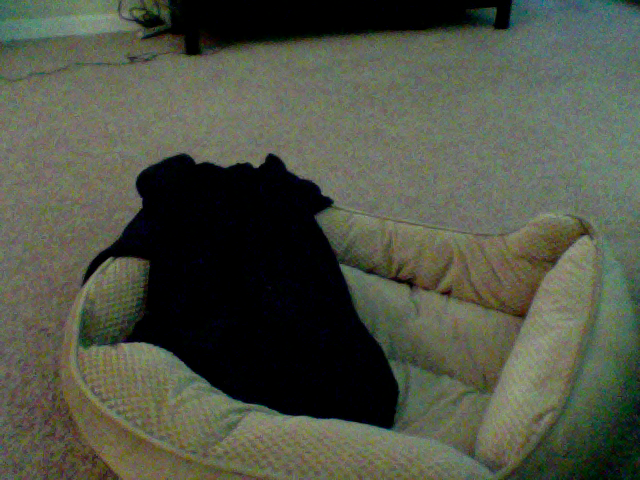
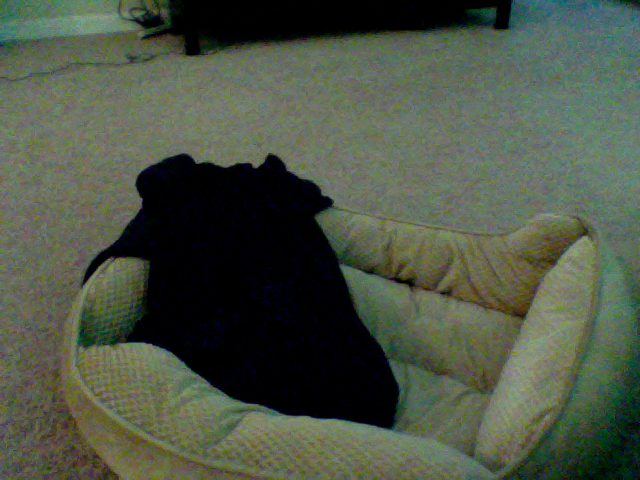
update at Month05Day12Time14:26

Changed region(s): [[0.0, 0.0, 1.0, 1.0]]

diff --git a/index.html b/index.html
@@ -39,8 +39,8 @@
       <!-- Example row of columns -->
       <div class="row">
         <div class="col-md-4">
-	<p>This picture was updated at Month05Day12Time14:25</p>
-		<img src="4_pic.png" />
+	<p>This picture was updated at Month05Day12Time14:26</p>
+		<img src="3_pic.png" />
         </div>
       </div>
 
